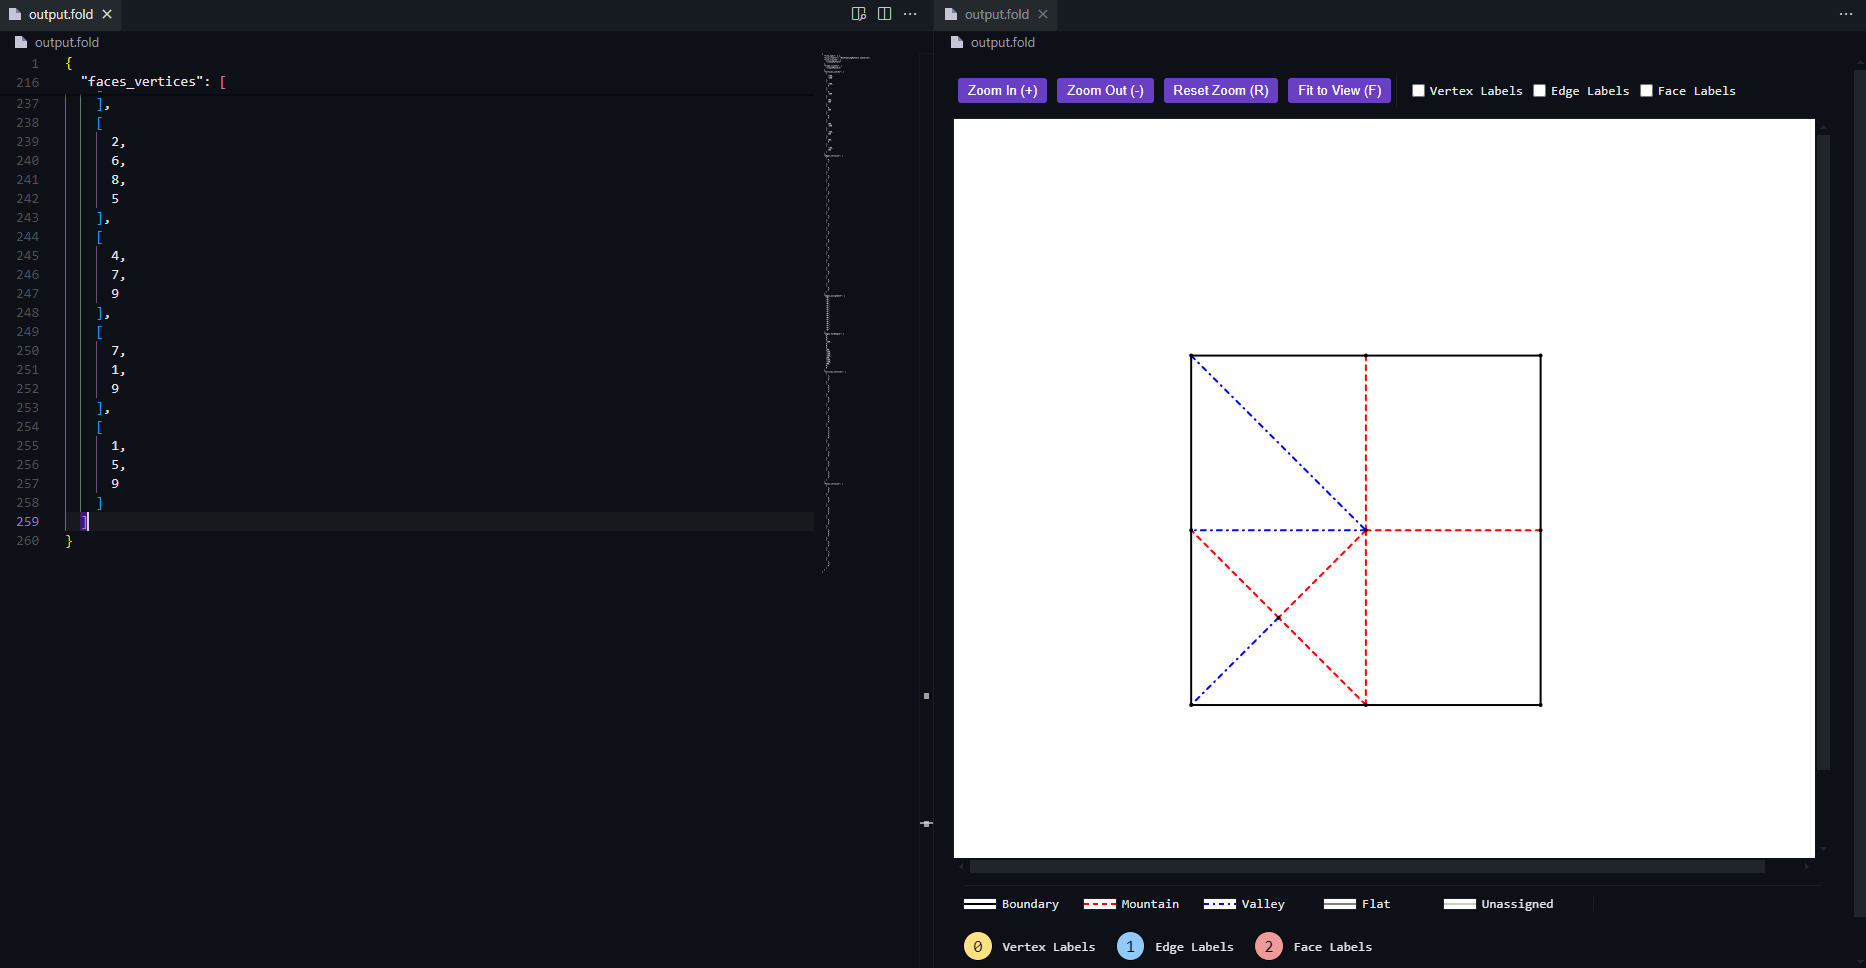
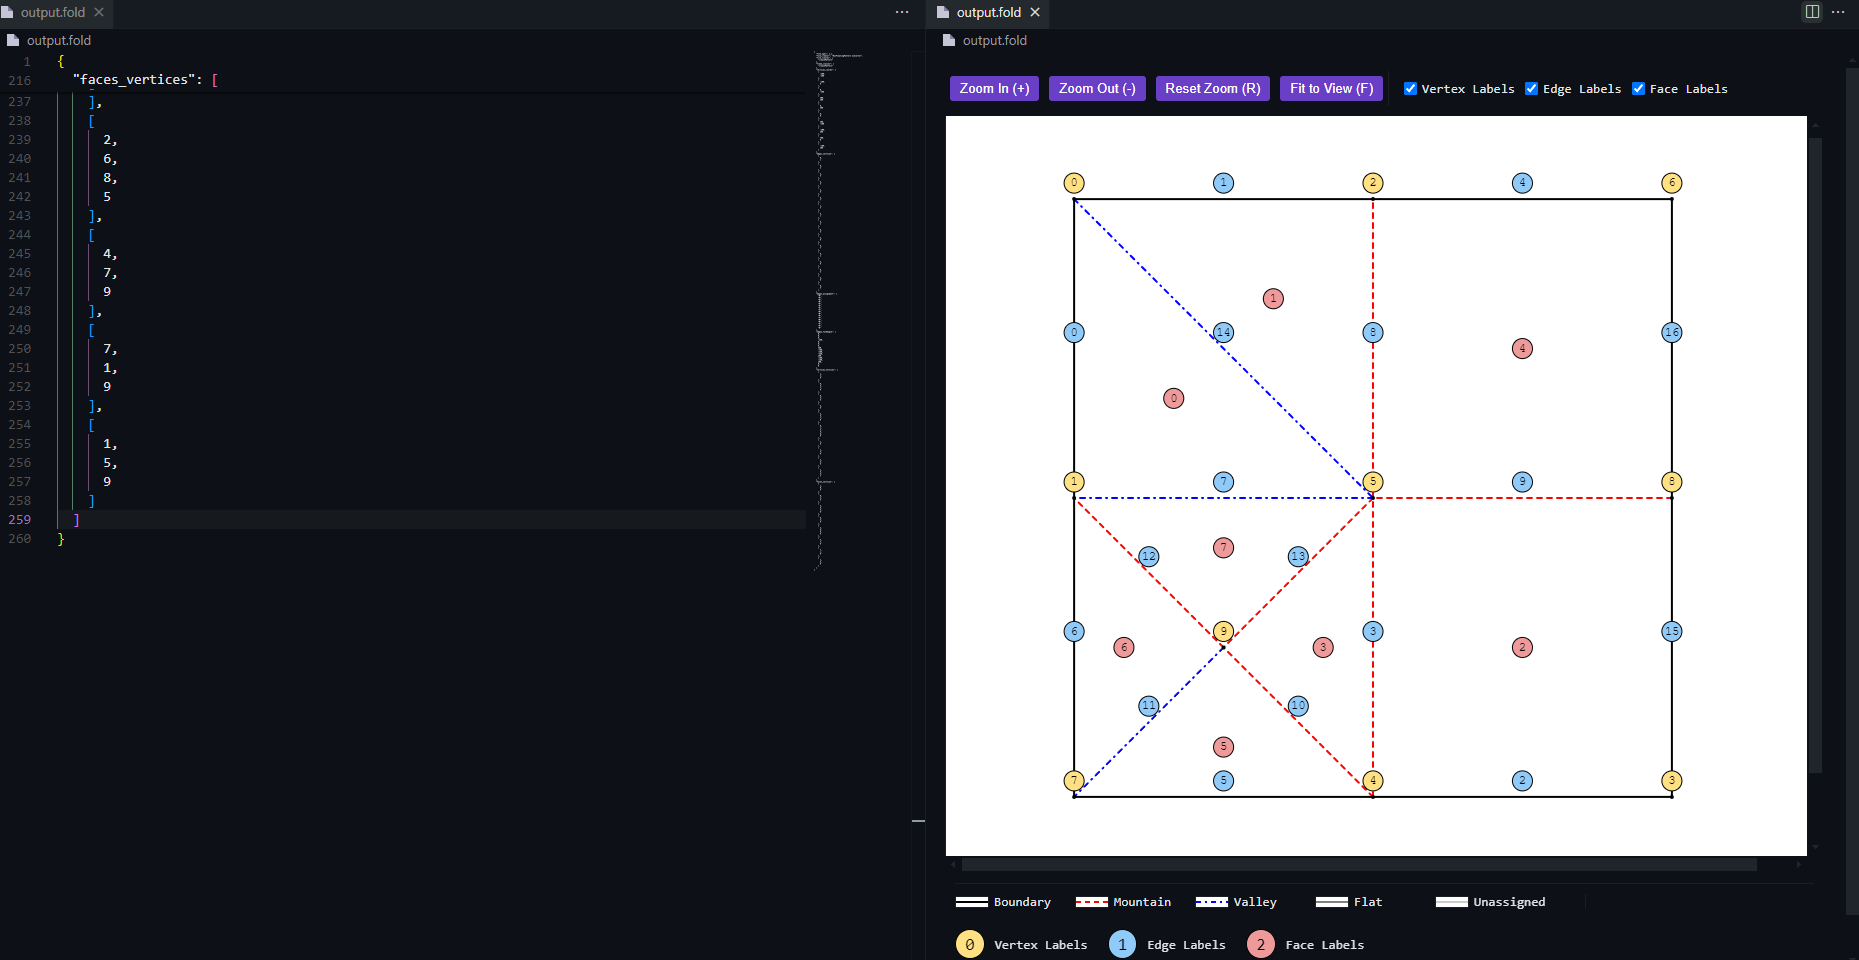
idk what changed

diff --git a/src/extension.ts b/src/extension.ts
@@ -295,34 +295,41 @@ class FoldPreviewProvider implements vscode.CustomTextEditorProvider {
                         }
                     });
 
-                    function drawLabelCircle(ctx, x, y, text, type) {
-                        const radius = currentConfig.labels.circleRadius;
-                        const bgColor = type === 'vertex' ? currentConfig.labels.vertex.background :
-                                    type === 'edge' ? currentConfig.labels.edge.background :
-                                    currentConfig.labels.face.background;
-                        const borderColor = currentConfig.labels.circleBorder;
-                        const borderWidth = currentConfig.labels.borderWidth;
-                        const fontSize = currentConfig.labels.fontSize;
-                        const textColor = currentConfig.labels.textColor;
-                        
-                        // Set text alignment properties each time
-                        ctx.textAlign = 'center';
-                        ctx.textBaseline = 'middle';
-                        
-                        // Draw circle background
-                        ctx.beginPath();
-                        ctx.fillStyle = bgColor;
-                        ctx.strokeStyle = borderColor;
-                        ctx.lineWidth = borderWidth / zoomLevel;
-                        ctx.arc(x, y, radius / zoomLevel, 0, Math.PI * 2);
-                        ctx.fill();
-                        ctx.stroke();
-                        
-                        // Draw text
-                        ctx.font = (fontSize / zoomLevel) + 'px monospace';
-                        ctx.fillStyle = textColor;
-                        ctx.fillText(text, x, y);
+                function drawLabelCircle(ctx, x, y, text, type) {
+                    // Check if this type of label is actually visible
+                    if ((type === 'vertex' && !showVertexLabels) ||
+                        (type === 'edge' && !showEdgeLabels) ||
+                        (type === 'face' && !showFaceLabels)) {
+                        return; // Don't draw if this label type is hidden
                     }
+
+                    const radius = currentConfig.labels.circleRadius;
+                    const bgColor = type === 'vertex' ? currentConfig.labels.vertex.background :
+                                type === 'edge' ? currentConfig.labels.edge.background :
+                                currentConfig.labels.face.background;
+                    const borderColor = currentConfig.labels.circleBorder;
+                    const borderWidth = currentConfig.labels.borderWidth;
+                    const fontSize = currentConfig.labels.fontSize;
+                    const textColor = currentConfig.labels.textColor;
+                    
+                    // Set text alignment properties each time
+                    ctx.textAlign = 'center';
+                    ctx.textBaseline = 'middle';
+                    
+                    // Draw circle background
+                    ctx.beginPath();
+                    ctx.fillStyle = bgColor;
+                    ctx.strokeStyle = borderColor;
+                    ctx.lineWidth = borderWidth / zoomLevel;
+                    ctx.arc(x, y, radius / zoomLevel, 0, Math.PI * 2);
+                    ctx.fill();
+                    ctx.stroke();
+                    
+                    // Draw text
+                    ctx.font = (fontSize / zoomLevel) + 'px monospace';
+                    ctx.fillStyle = textColor;
+                    ctx.fillText(text, x, y);
+                }
                     function updateLegend(config, data) {  // Add data parameter
                         const lineItems = [
                             { type: 'Boundary', color: config.colors.boundary },
@@ -541,13 +548,15 @@ class FoldPreviewProvider implements vscode.CustomTextEditorProvider {
                     }
 
                     function fitToView() {
-                        if (!currentData) return;
+                        if (!currentData || !currentData.vertices_coords) return;
+                        
+                        // Simply reset transformations
                         zoomLevel = 1;
                         panX = 0;
                         panY = 0;
+                        
                         renderFold(currentData);
                     }
-
                     window.addEventListener('message', event => {
                         const message = event.data;
                         switch (message.type) {
@@ -669,6 +678,7 @@ class FoldPreviewProvider implements vscode.CustomTextEditorProvider {
                         
                         const labelOffset = currentConfig.labels.offset;
 
+                        // Only draw vertex labels if checkbox is checked
                         if (showVertexLabels && data.vertices_coords) {
                             ctx.textAlign = 'center';
                             ctx.textBaseline = 'middle';
@@ -680,6 +690,7 @@ class FoldPreviewProvider implements vscode.CustomTextEditorProvider {
                             });
                         }
 
+                        // Only draw edge labels if checkbox is checked
                         if (showEdgeLabels && data.edges_vertices) {
                             data.edges_vertices.forEach((vertices, i) => {
                                 const [v1, v2] = vertices;
@@ -693,6 +704,7 @@ class FoldPreviewProvider implements vscode.CustomTextEditorProvider {
                             });
                         }
 
+                        // Only draw face labels if checkbox is checked AND faces exist
                         if (showFaceLabels && data.faces_vertices && Array.isArray(data.faces_vertices)) {
                             data.faces_vertices.forEach((vertices, i) => {
                                 const centerX = vertices.reduce((sum, v) => sum + data.vertices_coords[v][0], 0) / vertices.length;
@@ -716,15 +728,21 @@ class FoldPreviewProvider implements vscode.CustomTextEditorProvider {
                     // Handle window resize
                     window.addEventListener('resize', () => {
                         const container = document.querySelector('.container');
+                        const legend = document.getElementById('legend');
                         canvas.width = window.innerWidth - 40;  // 40px for padding
-                        canvas.height = window.innerHeight - 100;  // 100px to account for controls and padding
+                        
+                        // Get legend height only if it's visible
+                        const legendHeight = legend.style.display !== 'none' ? legend.offsetHeight + 20 : 0; // 20px for margins
+                        const controlsHeight = 60; // Height of controls section
+                        
+                        // Subtract both controls and legend height (if legend is visible)
+                        canvas.height = window.innerHeight - controlsHeight - legendHeight;
                         
                         if (currentData) {
                             renderFold(currentData);
                         }
                     });
 
-                    // Initial resize
                     window.dispatchEvent(new Event('resize'));
                 </script>
             </body>
@@ -752,7 +770,7 @@ export function activate(context: vscode.ExtensionContext) {
         'vertices.radius': 2,
         'vertices.color': '#000000',
         'canvas.backgroundColor': '#FFFFFF',
-        'canvas.padding': 40,
+        'canvas.padding': 80,
         'canvas.zoomSpeed': 0.1,
         'tabSize': 2,
         'labels.circleRadius': 10,

diff --git a/CHANGELOG.md b/CHANGELOG.md
@@ -2,6 +2,13 @@
 
 All notable changes to the "fold-preview" extension will be documented in this file.
 
+### 1.2.3
+
+- Fixed issue with labels not showing up on some models
+
+### 1.2.2
+- Fit to view fix
+
 ### 1.2.1
 - Forgot to update image again
 
